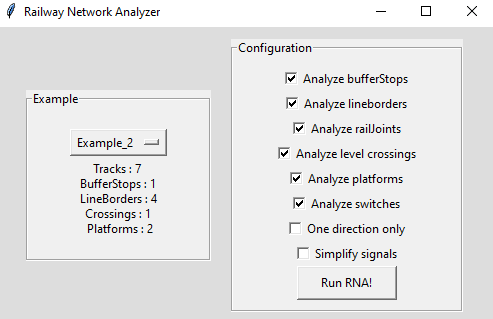
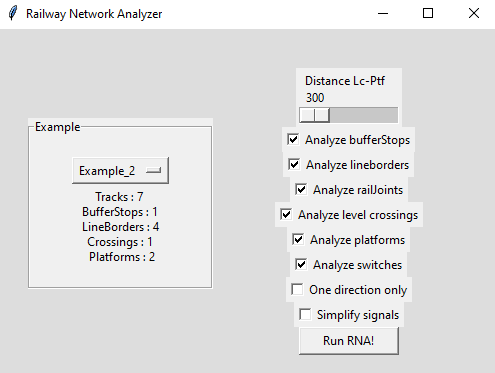
Actualización version pre-final Example 2 pendiente revision Ariel

diff --git a/Example_2/Readme.md b/Example_2/Readme.md
@@ -326,7 +326,7 @@ Routes 1 to 5 are the same in both interlocking tables, but RNA considers tracks
 
 As explained in literal B of section "IV. SIGNALING SIMPLIFICATION" in [1], more than two railway elements can be combined if they were close enough. The threshold distance to determine if this combination must be done is a configuration parameter of RNA, named MIN_DISTANCE (minimum distance). As shown in Algorithms 8, 9, and 10 in [1], this parameter is essential to locate, relocate and simplify signals. Because of integrity software reasons, this parameter should be between 300 and 500. For default, this value is 300. Figure 21 shows the parameter configuration in the GUI of RNA. 
 
-![Figure 21](.png "Figure 21")
+![Figure 21](minimum_distance_parameter.png "Figure 21")
 
 *Figure 20. Minimum distance parameter configuration*
 
